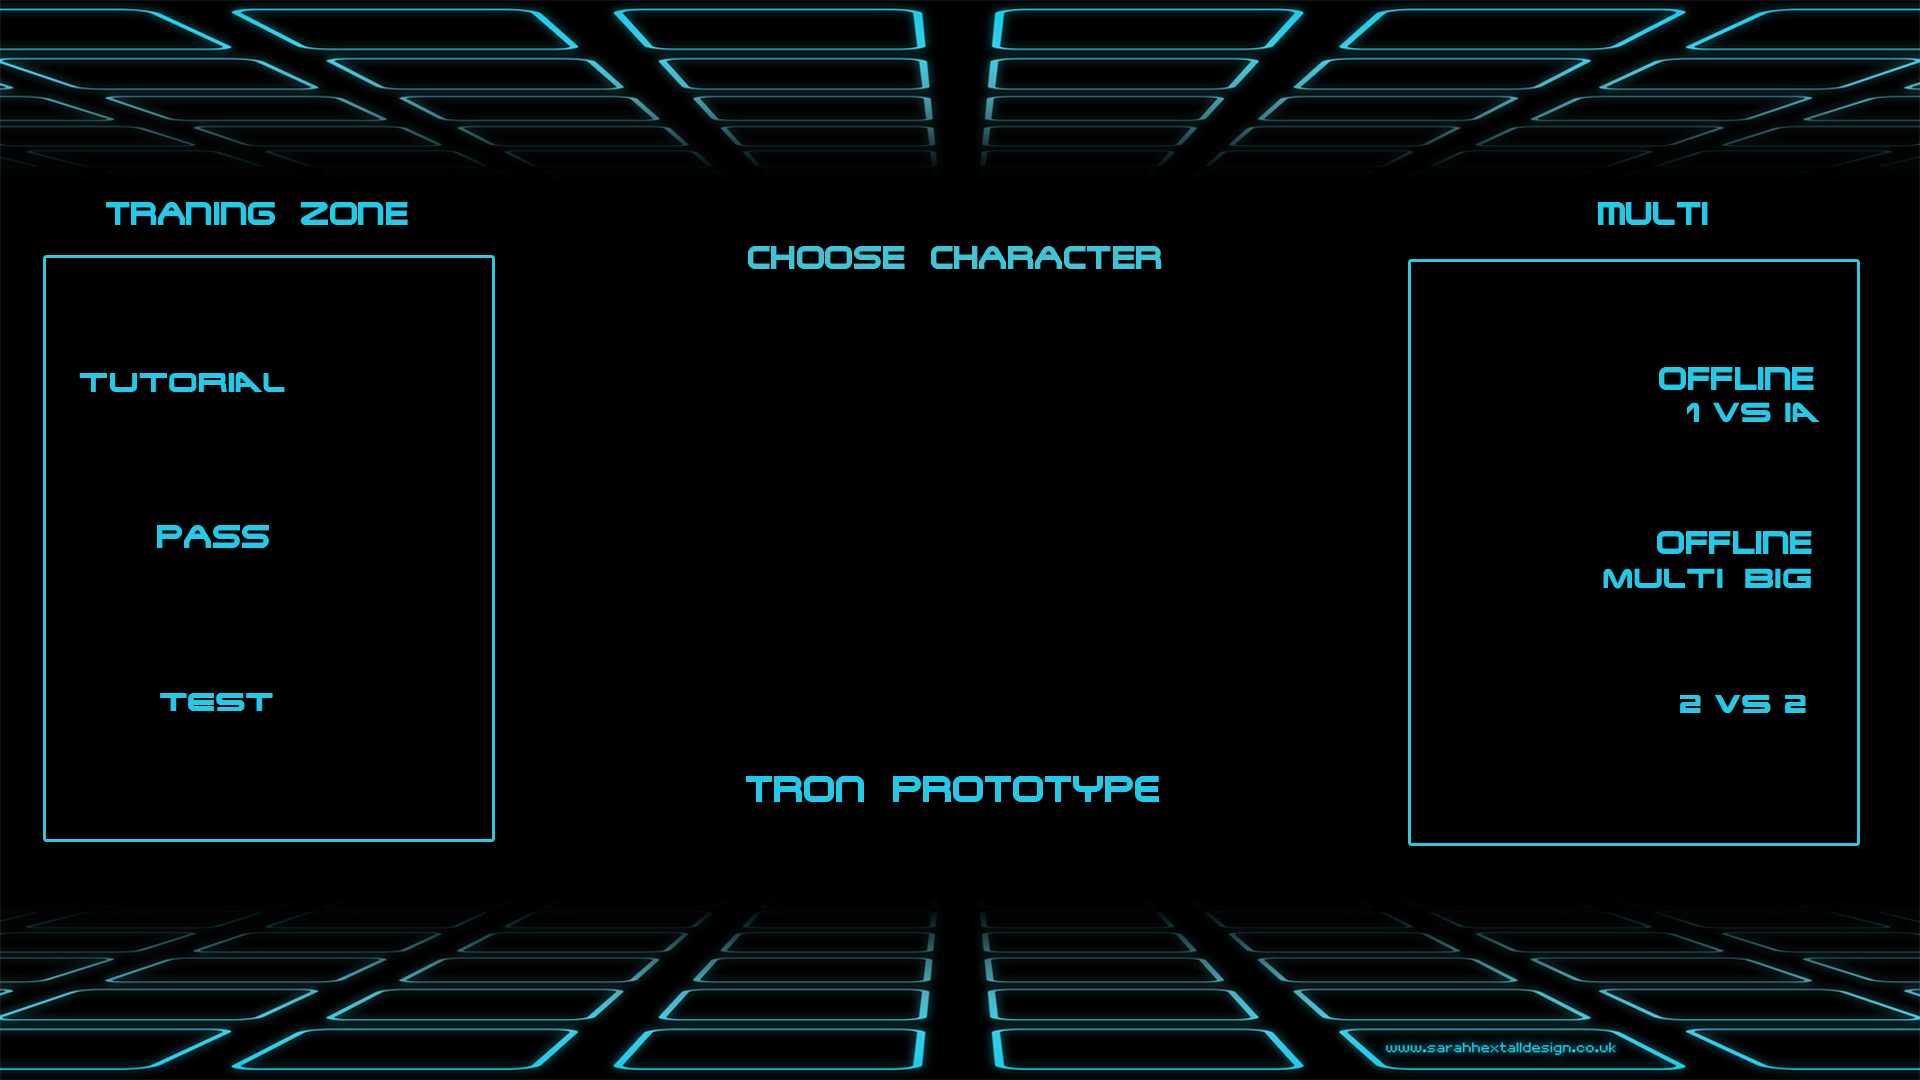
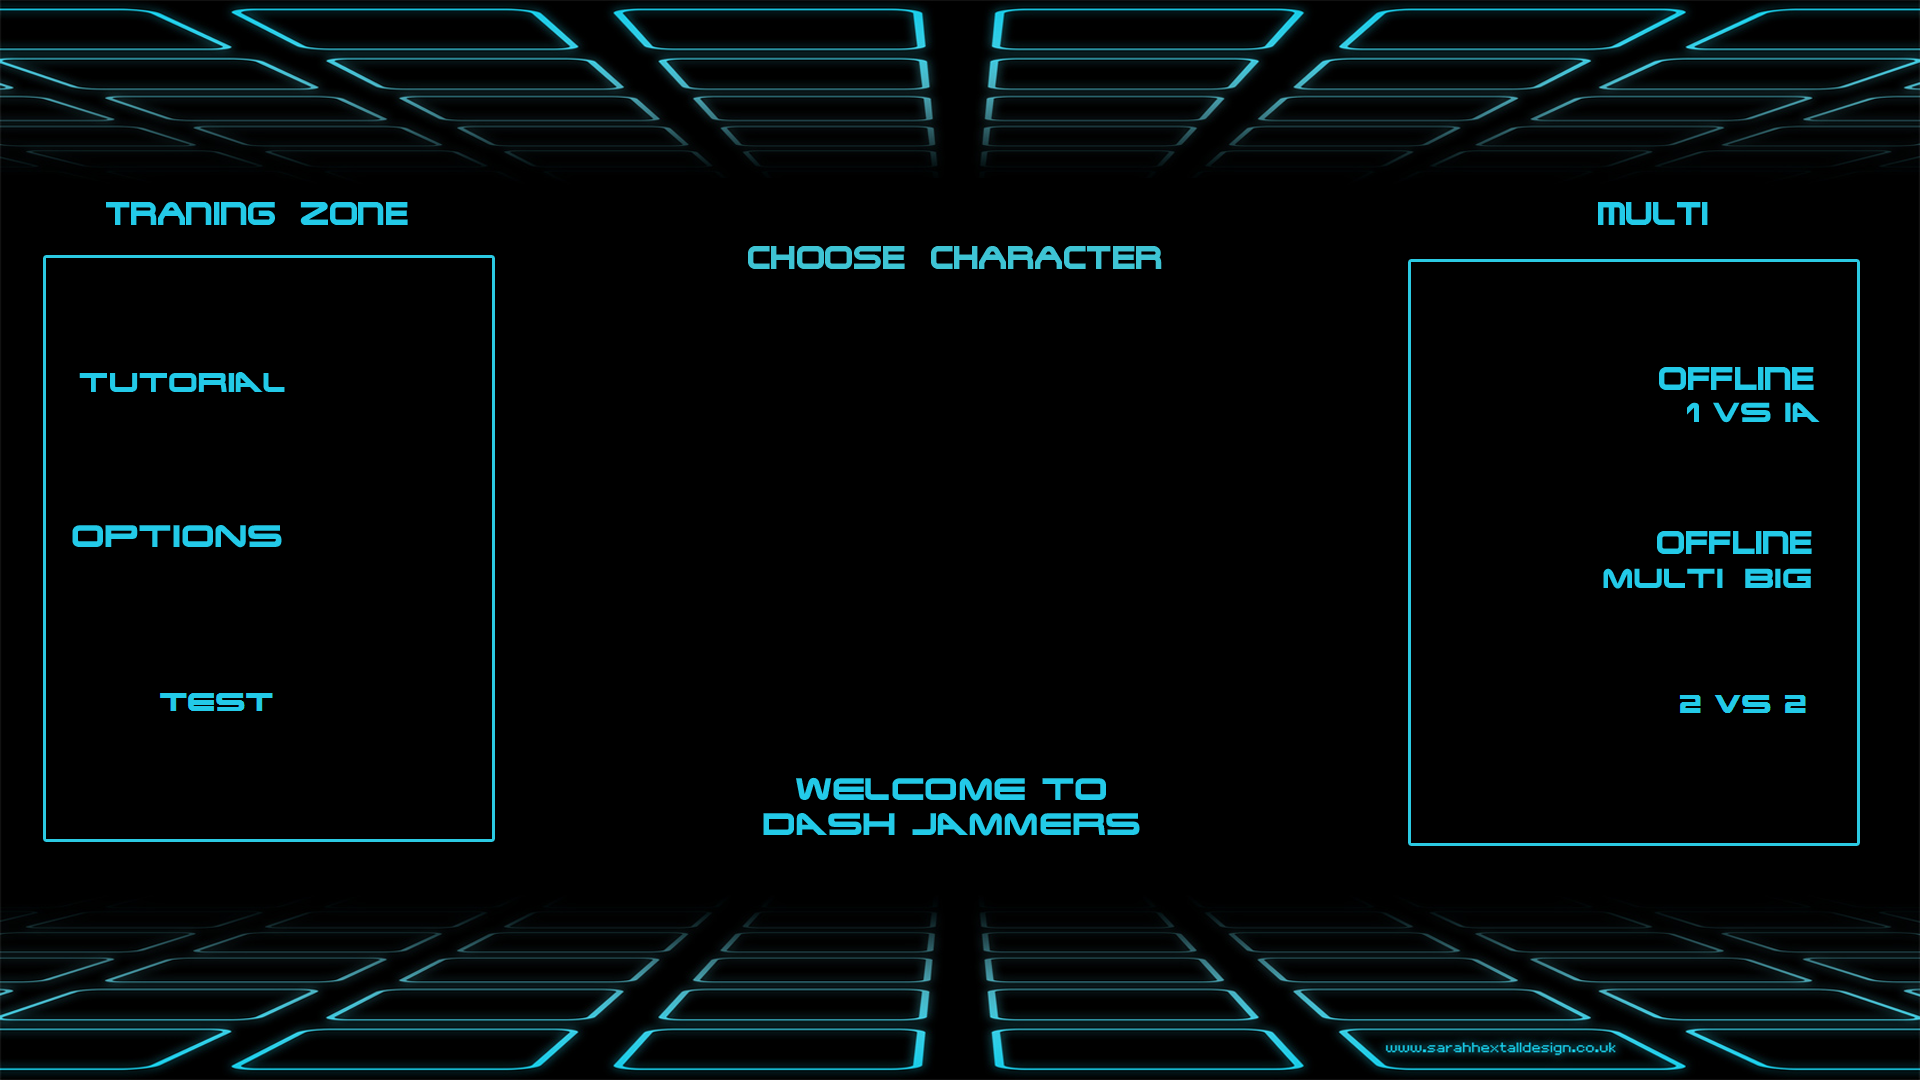
Options screen + music and sfx option on/off

Changed region(s): [[0.375, 0.7028, 0.625, 0.7944], [0.0312, 0.4889, 0.1562, 0.5194]]

diff --git a/Unstable/StarFighter/StarFighter/Game.cpp b/Unstable/StarFighter/StarFighter/Game.cpp
@@ -10,8 +10,6 @@ void Game::init(RenderWindow* window)
 	scale_factor.y = 1.0f * WINDOW_RESOLUTION_Y / REF_WINDOW_RESOLUTION_Y;
 	screen_size = sf::Vector2f(WINDOW_RESOLUTION_X, WINDOW_RESOLUTION_Y);
 
-	LoadSFX();
-
 	view.setCenter(sf::Vector2f(REF_WINDOW_RESOLUTION_X / 2, REF_WINDOW_RESOLUTION_Y / 2));
 	view.setSize(sf::Vector2f(REF_WINDOW_RESOLUTION_X, REF_WINDOW_RESOLUTION_Y));
 	//view.zoom(0.3f);
@@ -41,6 +39,44 @@ void Game::init(RenderWindow* window)
 	score_red_team = 0;
 	score_to_win = 1;
 
+	//TODO: save in local preferences
+	m_Music_Activated = false;
+	m_SFX_Activated = false;
+
+	//Sounds
+	LoadSFX();
+
+	//Music
+	LOGGER_WRITE(Logger::Priority::DEBUG, "Loading Musics");
+	//if (!SpaceCowboys.openFromFile("Assets/Music/SpaceCowboys.ogg"))
+	//if (!SpaceCowboys.openFromFile("Assets/Music/CrimeaDigital.ogg"))
+	//if (!SpaceCowboys.openFromFile("Assets/Music/Rebecca.ogg"))
+	//if (!SpaceCowboys.openFromFile("Assets/Music/Daft Punk - Derezzed.ogg"))
+	if (m_curMusic.openFromFile("Assets/Music/Tron_End_Titles.ogg"))
+	{
+		m_curMusic.setVolume(DEFAULT_MUSIC_VOLUME * m_Music_Activated);
+		m_curMusic.play();
+		m_curMusic.setLoop(true);
+	}
+}
+
+void Game::SetSFXVolume(bool activate_sfx)
+{
+	soundsBounce[0].setVolume(DEFAULT_SFX_VOLUME * activate_sfx);
+	soundsBounce[1].setVolume(DEFAULT_SFX_VOLUME * activate_sfx);
+	soundsBounce[2].setVolume(DEFAULT_SFX_VOLUME * activate_sfx);
+	soundsBounce[3].setVolume(DEFAULT_SFX_VOLUME * activate_sfx);
+	soundsBounce[4].setVolume(DEFAULT_SFX_VOLUME * activate_sfx);
+	soundsGoal.setVolume(DEFAULT_SFX_VOLUME * activate_sfx);
+	soundsTackle.setVolume(DEFAULT_SFX_VOLUME * activate_sfx);
+	soundsThrow.setVolume(DEFAULT_SFX_VOLUME * activate_sfx);
+	soundsCatch.setVolume(DEFAULT_SFX_VOLUME * activate_sfx);
+	//soundsSwitch.setVolume(DEFAULT_SFX_VOLUME * activate_sfx);
+}
+
+void Game::SetMusicVolume(bool activate_music)
+{
+	m_curMusic.setVolume(DEFAULT_MUSIC_VOLUME * activate_music);
 }
 
 sf::RenderWindow* Game::getMainWindow()
@@ -82,6 +118,17 @@ int Game::LoadSFX()
 	soundsThrow.setBuffer(soundBuffers[7]);
 	soundsCatch.setBuffer(soundBuffers[8]);
 	//soundsSwitch.setBuffer(soundBuffers[9]);
+
+	soundsBounce[0].setVolume(DEFAULT_SFX_VOLUME * m_SFX_Activated);
+	soundsBounce[1].setVolume(DEFAULT_SFX_VOLUME * m_SFX_Activated);
+	soundsBounce[2].setVolume(DEFAULT_SFX_VOLUME * m_SFX_Activated);
+	soundsBounce[3].setVolume(DEFAULT_SFX_VOLUME * m_SFX_Activated);
+	soundsBounce[4].setVolume(DEFAULT_SFX_VOLUME * m_SFX_Activated);
+	soundsGoal.setVolume(DEFAULT_SFX_VOLUME * m_SFX_Activated);
+	soundsTackle.setVolume(DEFAULT_SFX_VOLUME * m_SFX_Activated);
+	soundsThrow.setVolume(DEFAULT_SFX_VOLUME * m_SFX_Activated);
+	soundsCatch.setVolume(DEFAULT_SFX_VOLUME * m_SFX_Activated);
+	//soundsSwitch.setVolume(DEFAULT_SFX_VOLUME * m_SFX_Activated);
 
 	return 0;
 

diff --git a/Unstable/StarFighter/StarFighter/LevelPortal.cpp b/Unstable/StarFighter/StarFighter/LevelPortal.cpp
@@ -6,20 +6,26 @@ using namespace sf;
 
 // ----------------SHIP ---------------
 
-LevelPortal::LevelPortal(IngameScript script)
+LevelPortal::LevelPortal(IngameScript script, bool togglable, bool toggled)
 {
 	m_script = script;
+	m_togglable = togglable;
+	m_toggled = toggled;
 }
 
-LevelPortal::LevelPortal(IngameScript script, sf::Vector2f position, sf::Vector2f speed, std::string textureName, sf::Vector2f size, sf::Vector2f origin, int frameNumber, int animationNumber) : GameObject(position, speed, textureName, size, origin, frameNumber, animationNumber)
+LevelPortal::LevelPortal(IngameScript script, sf::Vector2f position, sf::Vector2f speed, std::string textureName, sf::Vector2f size, sf::Vector2f origin, int frameNumber, int animationNumber, bool togglable, bool toggled) : GameObject(position, speed, textureName, size, origin, frameNumber, animationNumber)
 {
 	m_script = script;
+	m_togglable = togglable;
+	m_toggled = toggled;
 	this->Init();
 }
 
-LevelPortal::LevelPortal(IngameScript script, sf::Vector2f position, sf::Vector2f speed, std::string textureName, sf::Vector2f size) : GameObject(position, speed, textureName, size)
+LevelPortal::LevelPortal(IngameScript script, sf::Vector2f position, sf::Vector2f speed, std::string textureName, sf::Vector2f size, bool togglable, bool toggled) : GameObject(position, speed, textureName, size)
 {
 	m_script = script;
+	m_togglable = togglable;
+	m_toggled = toggled;
 	this->Init();
 }
 
@@ -28,6 +34,11 @@ void LevelPortal::Init()
 	m_collider_type = LevelPortalObject;
 	DontGarbageMe = true;
 	m_destination = NULL;
+
+	if (m_togglable && !m_toggled)
+		setAnimationLine(PortalOff);
+	else
+		setAnimationLine(PortalOn);
 }
 
 LevelPortal::~LevelPortal()

diff --git a/Unstable/StarFighter/StarFighter/LevelPortal.h b/Unstable/StarFighter/StarFighter/LevelPortal.h
@@ -7,20 +7,22 @@
 
 enum PortalAnimations
 {
-	PortalActivated,
-	PortalDeactivated,
+	PortalOn,
+	PortalOff,
 };
 
 class LevelPortal : public GameObject
 {
 public :
-	LevelPortal(IngameScript script);
-	LevelPortal(IngameScript script, sf::Vector2f position, sf::Vector2f speed, std::string textureName, sf::Vector2f size, sf::Vector2f origin, int frameNumber = 1, int animationNumber = 1);
-	LevelPortal(IngameScript script, sf::Vector2f position, sf::Vector2f speed, std::string textureName, sf::Vector2f size);
+	LevelPortal(IngameScript script, bool togglable = false, bool toggled = false);
+	LevelPortal(IngameScript script, sf::Vector2f position, sf::Vector2f speed, std::string textureName, sf::Vector2f size, sf::Vector2f origin, int frameNumber = 1, int animationNumber = 1, bool togglable = false, bool toggled = false);
+	LevelPortal(IngameScript script, sf::Vector2f position, sf::Vector2f speed, std::string textureName, sf::Vector2f size, bool togglable = false, bool toggled = true);
 	void Init();
 	virtual ~LevelPortal();
 	IngameScript m_script;
 	LevelPortal* m_destination;
+	bool m_togglable;
+	bool m_toggled;
 };
 
 #endif // LEVELPORTAL_H_INCLUDED

diff --git a/Unstable/StarFighter/StarFighter/InGameState.h b/Unstable/StarFighter/StarFighter/InGameState.h
@@ -38,6 +38,7 @@ public:
 	void StartMultiGame(bool reset_scores = true);
 	void StartMultiGameBig(bool reset_scores = true);
 	void StartMultiGame2vs2(bool reset_scores = true);
+	void StartOptionsMenu();
 
 	void InitializeSoloCharacter();
 	void InitializeMapDesign();
@@ -61,7 +62,7 @@ public:
 	static Discoball* CreateDiscoball(sf::Vector2f position = sf::Vector2f(REF_WINDOW_RESOLUTION_X / 2, REF_WINDOW_RESOLUTION_Y / 2));
 	static Bumper* CreateBumper(BumperType type, sf::Vector2f position, bool vertical, float size);
 	static Bumper* CreateBumper(BumperType type, sf::Vector2f position, sf::Vector2f size);
-	static LevelPortal* CreateLevelPortal(IngameScript script, sf::Vector2f position);
+	static LevelPortal* CreateLevelPortal(IngameScript script, sf::Vector2f position, bool togglable = false, bool toggled = false);
 	static GameObject* CreateGoal(Teams team, sf::Vector2f position, sf::Vector2f size);
 
 	static void AutoFillGoalBumpers(ScreenBorder border, float goal_size, float goal_pos);

diff --git a/Unstable/StarFighter/StarFighter/StarFighter.cpp b/Unstable/StarFighter/StarFighter/StarFighter.cpp
@@ -26,19 +26,6 @@ int main()
 	//Title
 	renderWindow.setTitle("DashJammers Alpha");
 
-	//Music
-	LOGGER_WRITE(Logger::Priority::DEBUG, "Loading Musics");
-	sf::Music SpaceCowboys;
-		//if (!SpaceCowboys.openFromFile("Assets/Music/SpaceCowboys.ogg"))
-		//if (!SpaceCowboys.openFromFile("Assets/Music/CrimeaDigital.ogg"))
-		//if (!SpaceCowboys.openFromFile("Assets/Music/Rebecca.ogg"))
-		//if (!SpaceCowboys.openFromFile("Assets/Music/Daft Punk - Derezzed.ogg"))
-	if (!SpaceCowboys.openFromFile("Assets/Music/Tron_End_Titles.ogg"))
-		return -1; // erreur
-	SpaceCowboys.setVolume(50);
-	SpaceCowboys.play();
-	SpaceCowboys.setLoop(true);
-
 	CurrentGame = new Game();
 	srand(time(NULL));
 

diff --git a/Unstable/StarFighter/StarFighter/Ship.cpp b/Unstable/StarFighter/StarFighter/Ship.cpp
@@ -737,12 +737,20 @@ void Ship::GetPortal(GameObject* portal)
 		if (getportal->m_destination)
 		{
 			setPosition(getportal->m_destination->getPosition());
-			//m_isUsingPortal = true; -> set in Game::CollisionCheckV2 method
 		}
 		else
 		{
 			m_script = getportal->m_script;
 			m_isLaunchingScript = true;
+		}
+
+		if (getportal->m_togglable)
+		{
+			getportal->m_toggled = !getportal->m_toggled;
+			if (getportal->m_toggled)
+				getportal->setAnimationLine(PortalOn);
+			else
+				getportal->setAnimationLine(PortalOff);
 		}
 	}
 }

diff --git a/Unstable/StarFighter/StarFighter/Game.h b/Unstable/StarFighter/StarFighter/Game.h
@@ -77,6 +77,13 @@ public:
 	sf::Sound soundsThrow;
 	sf::Sound soundsCatch;
 	sf::Sound soundsSwitch;
+	bool m_SFX_Activated;
+	void SetSFXVolume(bool activate_sfx);
+
+	//Music
+	sf::Music m_curMusic;
+	bool m_Music_Activated;
+	void SetMusicVolume(bool activate_music);
 
 	//TRON SPECIFIC
 	float GetAngleOfCollision(const GameObject* ref_obj, const GameObject* aimed_obj);

diff --git a/Unstable/StarFighter/StarFighter/Globals.h b/Unstable/StarFighter/StarFighter/Globals.h
@@ -23,6 +23,10 @@
 #define SHIP_START_X								990
 #define SHIP_START_Y								REF_WINDOW_RESOLUTION_Y/2
 
+//SOUND
+#define DEFAULT_MUSIC_VOLUME				50
+#define DEFAULT_SFX_VOLUME					100
+
 //GAME RULES
 #define GOAL_RESPAWN_COOLDOWN						2.f
 #define USE_FRICTION_ON_DISCOBALL					true

diff --git a/Unstable/StarFighter/StarFighter/GameObject.h b/Unstable/StarFighter/StarFighter/GameObject.h
@@ -72,6 +72,9 @@ enum IngameScript
 	Tuto04,
 	Tuto05,
 	ScriptTest,
+	OptionsMenu,
+	SFXOnOff,
+	MusicOnOff,
 };
 
 enum CollisionSide
